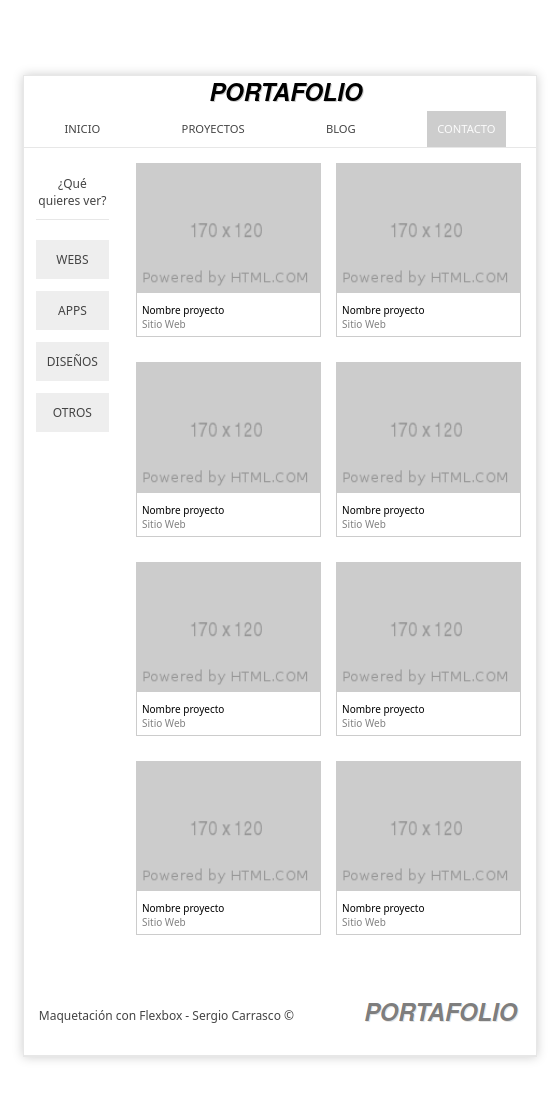
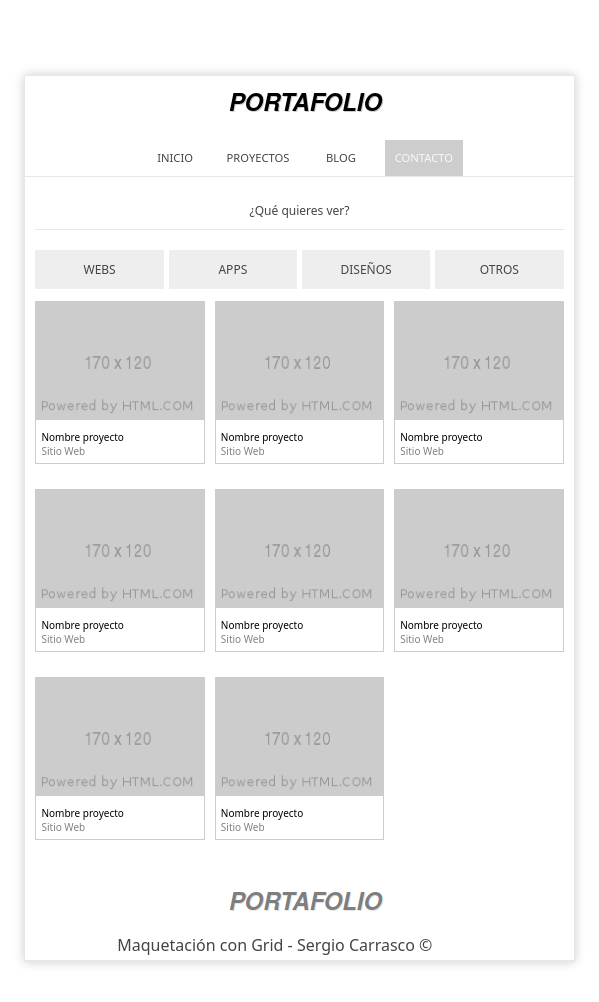
Improving the responsive and the readme file

diff --git a/responsive.css b/responsive.css
@@ -82,10 +82,11 @@
     #footer .info {
         text-align: center;
         align-content: center;
+        margin-right: 0px;
     }
 }
 
-@media(max-width: 600px) {
+@media(max-width: 599px) {
     #content {
         grid-template-columns: 100%;
         margin: 10px;
@@ -114,5 +115,11 @@
         gap: auto;
         grid-template-columns: 100%;
         justify-content: space-around;
+    }
+}
+
+@media(max-width: 370px) {
+    #footer .info {
+        font-size: 12px;
     }
 }

diff --git a/README.md b/README.md
@@ -16,7 +16,7 @@ It is a simple but effective responsive web design created from a jpg image. HTM
  [Click here!](https://scarrasco85.github.io/-portfolio-layout-grid/index.html)
 
 ---
- ## Responsive Views 
+ ## Responsive views - Some examples
 #### Desktop view:
 
 ![](img/screenshots/version-escritorio.png)
@@ -29,9 +29,9 @@ It is a simple but effective responsive web design created from a jpg image. HTM
 ---
 ***
 
-#### Medium-Small view:
+#### Medium view 2 - 670px:
 
-![](img/screenshots/medium-small-devices.png)
+![](img/screenshots/medium-devices-670px.png)
 ---
 ***
 
@@ -41,32 +41,20 @@ It is a simple but effective responsive web design created from a jpg image. HTM
 ---
 ***
 
-#### Small view 2 - 520px:
+#### Small view 2 - 409px:
 
-![](img/screenshots/small-devices-2-520px.png)
+![](img/screenshots/small-devices-2-409px.png)
 ---
 ***
 
-#### Small view 3 - 510px:
+#### Small view 3 - 390px:
 
-![](img/screenshots/small-devices-3-510px.png)
+![](img/screenshots/small-devices-3-390px.png)
 ---
 ***
 
-#### Small view 4 - 499px:
+#### Small view 4 - 300px:
 
-![](img/screenshots/small-devices-4-499px.png)
----
-***
-
-#### Small view 5 - 396px:
-
-![](img/screenshots/small-devices-5-396px.png)
----
-***
-
-#### Small view 6 - 310px:
-
-![](img/screenshots/small-devices-6-310px.png)
+![](img/screenshots/small-devices-4-300px.png)
 ---
 ***
